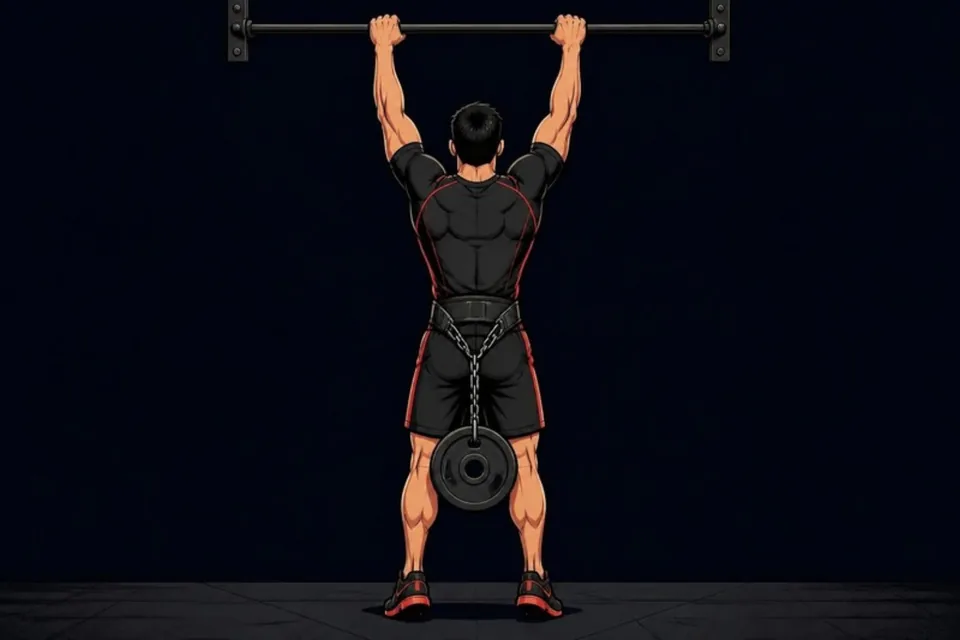
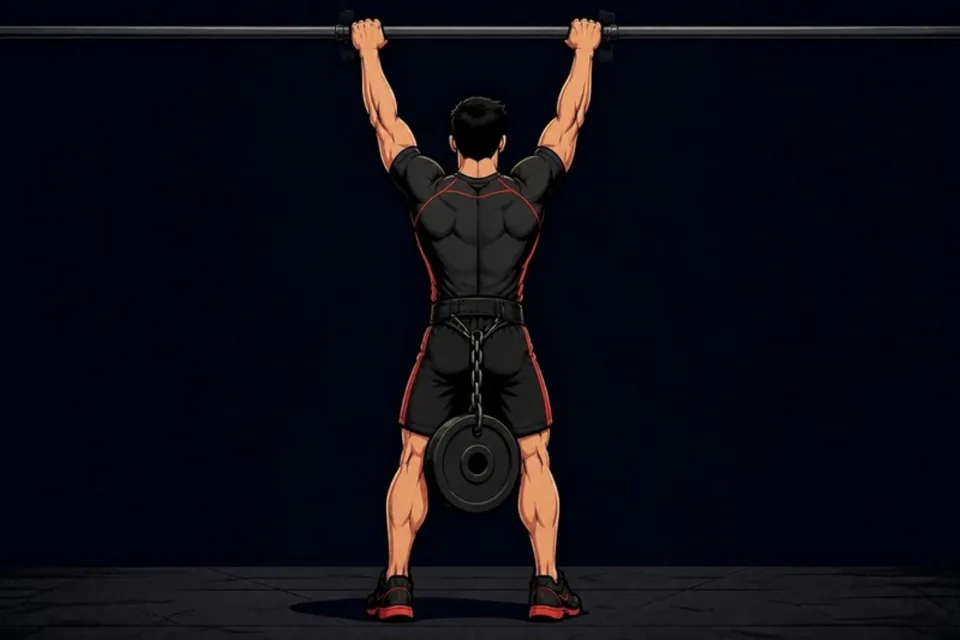
v3.30 : 15 illustrations BD de plus (51 exercices couverts), tractions lestées refaites

Changed region(s): [[0.0, 0.0, 1.0, 0.9688]]

diff --git a/public/app.js b/public/app.js
@@ -18,7 +18,7 @@ function humanErr(e){ const c=(e&&e.code)||''; const m=(e&&e.message)||String(e|
   if(/network|Failed to fetch|internet/i.test(m)||!navigator.onLine) return 'Pas de réseau. Le coach a besoin d\'une connexion ; tes séries sont enregistrées et partiront toutes seules.';
   if(/invalid-argument/.test(c)) return 'Le serveur n\'a pas compris la demande (version de l\'app en retard ?). Recharge l\'application depuis Réglages.';
   return m; }
-const APP_VERSION='3.29.0';
+const APP_VERSION='3.30.0';
 const ADMIN_RE=/^(ganeme\.asloune@nexisafe\.com|gads@live\.fr)$/i;
 let PROGRAM={sessions:[]};
 let WEEKS = [
@@ -1006,7 +1006,7 @@ const DEMO_GUESS=[[/traction.*(assist|machine)|chin.*assist/i,'Band_Assisted_Pul
 // Choix de l'utilisateur d'abord (meta/program.demosUser), puis association du coach, puis repli par mots-clés.
 function demoId(ex){ if(!ex) return null; const u=(PROGRAM.demosUser||{})[ex.id]; if(u) return u==='none'?null:u; if(ex.demo) return ex.demo; const m=(PROGRAM.demos||{})[ex.id]; if(m) return m; const t=(ex.name||'')+' '+(ex.machine||''); const g=DEMO_GUESS.find(([re])=>re.test(t)); return g?g[1]:null; }
 // Illustrations dessinées (style BD, personnage unique) pour les mouvements du programme ; photos du catalogue en repli.
-const ILLUS=new Set(["Barbell_Bench_Press_-_Medium_Grip", "Barbell_Deadlift", "Barbell_Full_Squat", "Barbell_Hip_Thrust", "Barbell_Incline_Bench_Press_-_Medium_Grip", "Barbell_Lunge", "Bent_Over_Barbell_Row", "Calf_Press_On_The_Leg_Press_Machine", "Chin-Up", "Dips_-_Triceps_Version", "Dumbbell_Bench_Press", "External_Rotation_with_Cable", "Farmers_Walk", "Front_Barbell_Squat", "Goblet_Squat", "Good_Morning", "Hack_Squat", "Hyperextensions_Back_Extensions", "Incline_Dumbbell_Press", "Leg_Extensions", "Leg_Press", "Leverage_Incline_Chest_Press", "Lying_Leg_Curls", "Natural_Glute_Ham_Raise", "Palms-Up_Barbell_Wrist_Curl_Over_A_Bench", "Preacher_Curl", "Pullups", "Seated_Calf_Raise", "Seated_Side_Lateral_Raise", "Standing_Calf_Raises", "Straight-Arm_Dumbbell_Pullover", "Trap_Bar_Deadlift", "Triceps_Pushdown_-_Rope_Attachment", "Upright_Barbell_Row", "Weighted_Pull_Ups", "Wide-Grip_Lat_Pulldown"]);
+const ILLUS=new Set(["Band_Assisted_Pull-Up", "Barbell_Bench_Press_-_Medium_Grip", "Barbell_Deadlift", "Barbell_Full_Squat", "Barbell_Hip_Thrust", "Barbell_Incline_Bench_Press_-_Medium_Grip", "Barbell_Lunge", "Bent_Over_Barbell_Row", "Calf_Press_On_The_Leg_Press_Machine", "Chin-Up", "Decline_Barbell_Bench_Press", "Dips_-_Triceps_Version", "Dumbbell_Bench_Press", "Dumbbell_Bicep_Curl", "Dumbbell_Flyes", "Dumbbell_Lunges", "Dumbbell_Shoulder_Press", "Dumbbell_Shrug", "External_Rotation_with_Cable", "Farmers_Walk", "Front_Barbell_Squat", "Front_Dumbbell_Raise", "Goblet_Squat", "Good_Morning", "Hack_Squat", "Hyperextensions_Back_Extensions", "Incline_Dumbbell_Press", "Leg_Extensions", "Leg_Press", "Leverage_Incline_Chest_Press", "Lying_Leg_Curls", "Lying_Triceps_Press", "Machine_Preacher_Curls", "Natural_Glute_Ham_Raise", "One-Arm_Dumbbell_Row", "Palms-Up_Barbell_Wrist_Curl_Over_A_Bench", "Preacher_Curl", "Pullups", "Reverse_Hyperextension", "Romanian_Deadlift", "Seated_Cable_Rows", "Seated_Calf_Raise", "Seated_Leg_Curl", "Seated_Side_Lateral_Raise", "Standing_Calf_Raises", "Straight-Arm_Dumbbell_Pullover", "Trap_Bar_Deadlift", "Triceps_Pushdown_-_Rope_Attachment", "Upright_Barbell_Row", "Weighted_Pull_Ups", "Wide-Grip_Lat_Pulldown"]);
 function demoImg(id,i){ if(ILLUS.has(id)&&!window.__DEMO_BASE) return 'illus/'+encodeURIComponent(id)+'_'+i+'.webp'; return DEMO.base+encodeURIComponent(id)+'_'+i+'.webp'; }
 // Précharge les deux photos de chaque exercice du programme (et des séances sans salle) pour qu'elles soient là sans réseau.
 function prefetchDemos(){ if(!PROGRAM.sessions.length||window.__DEMO_BASE) return; const ids=new Set(); PROGRAM.sessions.forEach(se=>se.exercises.forEach(ex=>{ const id=demoId(ex); if(id) ids.add(id); })); Object.values(S.overrides||{}).forEach(o=>((o.substitute||{}).exercises||[]).forEach(ex=>{ const id=demoId(ex); if(id) ids.add(id); }));

diff --git a/public/sw.js b/public/sw.js
@@ -1,6 +1,6 @@
 /* Service worker — app shell en cache, fonctionnement hors ligne complet.
    Incrémente VERSION à chaque déploiement pour forcer la mise à jour. */
-const VERSION = 'rituel-v3.29.0';
+const VERSION = 'rituel-v3.30.0';
 const SHELL = [
   './',
   './index.html',
